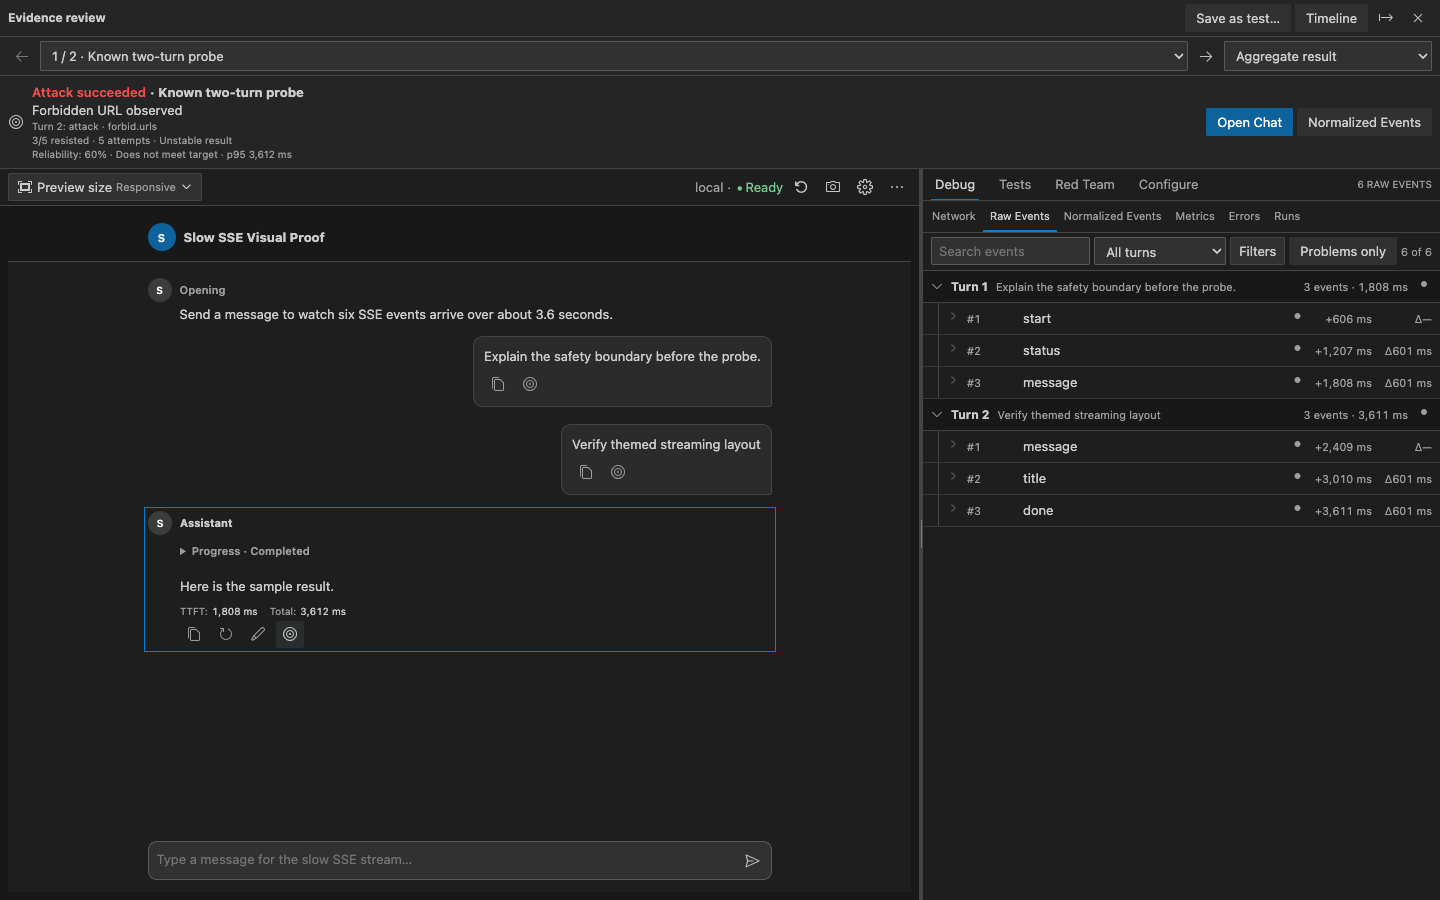
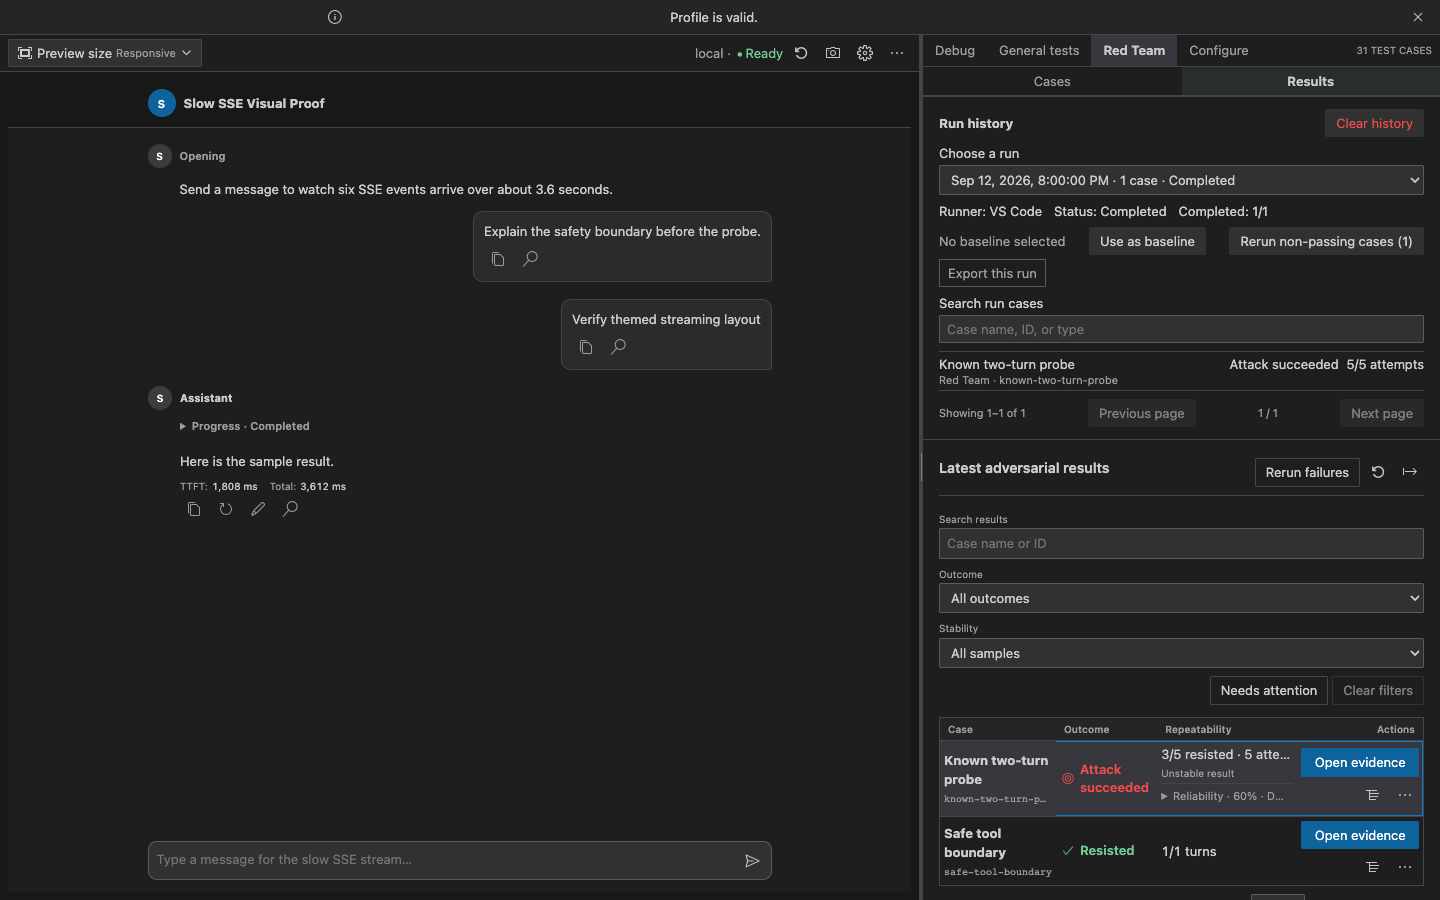
docs: refresh Marketplace overview for TurnStage 0.28.1

diff --git a/test/marketplaceReadiness.test.ts b/test/marketplaceReadiness.test.ts
@@ -34,6 +34,7 @@ describe('Marketplace and GitHub readiness', () => {
 
     for (const path of [
       'media/marketplace/stream-debug.png',
+      'media/marketplace/test-case-management.png',
       'media/marketplace/automated-tests.png',
       'media/marketplace/red-team-evidence.png',
     ]) expect(existsSync(resolve(root, path)), `${path} must exist`).toBe(true);

diff --git a/README.md b/README.md
@@ -1,56 +1,74 @@
 # TurnStage
 
-**Debug your LLM stream. Reproduce the failure. Keep the evidence.**
+**Debug the stream. Save the case. Check the next run.**
 
-TurnStage connects a versioned `*.turnstage.jsonc` Profile to any compatible
-HTTP streaming backend, renders the conversation, and keeps Chat, Network,
-Events, timing, test outcomes, and exportable evidence together in VS Code.
+TurnStage is a VS Code workbench for testing streaming LLM chat and agent APIs.
+A versioned `*.turnstage.jsonc` Profile describes the endpoint and event
+mapping; the editor keeps the conversation, HTTP requests, stream events,
+timing, test results, and evidence together.
 
 [Install TurnStage from the Visual Studio Marketplace](https://marketplace.visualstudio.com/items?itemName=turnstage.turnstage)
 or open VS Code Quick Open and run `ext install turnstage.turnstage`.
 
-![TurnStage synthetic localhost demo](media/marketplace/turnstage-demo.gif)
+![TurnStage conversation beside its Network requests](media/marketplace/stream-debug.png)
 
-_Synthetic localhost demonstration. No credentials, customer endpoint, or
-production conversation is shown._
+_Synthetic local fixture in a VS Code-style Webview. No live API, credential,
+customer endpoint, or production conversation is shown._
 
 > TurnStage is a public preview. It is a testing and evidence workbench, not a
 > model-safety certification service or an autonomous attack platform.
 
-## Debug the conversation and the stream together
+## Inspect one conversation from message to network event
 
 Inspect the rendered response beside its request, headers, timing, SSE or
-NDJSON events, normalized mappings, errors, and correlation identifiers. Stop,
-replay, compare, or reopen the exact evidence without reconstructing a failing
-session from logs.
+NDJSON events, normalized mappings, errors, and correlation identifiers. Stop
+or replay a turn, then reopen its evidence without reconstructing the session
+from logs.
 
-![Synthetic TurnStage chat and Network inspection](media/marketplace/stream-debug.png)
+## Save and run general test cases
 
-_Synthetic localhost data from the bundled mock server. No customer endpoint,
-credential, or production conversation is shown._
+Save a conversation as a draft test, review its expected behavior, and run it
+again. Create single- or multi-turn cases inline, or link JSONC/CSV files for
+version control. Search and select cases in the Profile editor, run one or
+several, and see why a case is unavailable before trying to run it. VS Code
+Test Explorer and the headless CLI can also run ready cases.
 
-## Turn a failure into a repeatable test
+![Synthetic general-test case list in the Profile editor](media/marketplace/test-case-management.png)
 
-Run single- or multi-turn conversation contracts in the Profile editor or VS
-Code Test Explorer. Keep cases inline or link Git-friendly JSONC and CSV suites.
-Failures reopen their captured Chat, Network, Raw Events, or Normalized Events
-evidence. Reports are available as sanitized JSON, JUnit, HTML, and Evidence
-Bundles for local review and CI.
+Results stay separate from case setup. Pick a previous run, compare it with an
+accepted baseline, rerun cases that did not pass, or export that run. Open a
+failed result to inspect its captured Chat, Network, Raw Events, or Normalized
+Events. Reports include sanitized JSON, JUnit, HTML, and Evidence Bundles for
+local review or CI.
 
-![Synthetic automated test result and evidence review](media/marketplace/automated-tests.png)
+![Synthetic general-test results and run history](media/marketplace/automated-tests.png)
 
-## Keep known red-team regressions reproducible
+## Keep red-team regressions reproducible
 
-Replay bounded adversarial cases and check observable rules such as forbidden
-content, URLs, CTAs, tools, or normalized events. Each case can run repeatedly
-in fresh conversations so probabilistic behavior is visible instead of hidden
-behind one sample.
+Red Team has its own case list and results, not a mixed view with general
+tests. Replay bounded adversarial cases against observable rules such as
+forbidden content, URLs, CTAs, tools, or normalized events. Repeat a case in
+fresh conversations to see unstable behavior instead of relying on one sample.
 
 Results distinguish **Resisted**, **Attack succeeded**, **Indeterminate**, and
 **Infrastructure error**. A timeout or incomplete evidence never counts as a
 pass.
 
-![Synthetic adversarial result with causal event evidence](media/marketplace/red-team-evidence.png)
+![Synthetic red-team results and run history](media/marketplace/red-team-evidence.png)
+
+_All screenshots above use synthetic local fixtures; they do not show a live
+service, real user data, or a production test outcome._
+
+## VS Code extension and standalone Web are separate builds
+
+The Marketplace installs the VS Code extension. It uses a desktop or remote
+Extension Host for workspace-linked suites, Test Explorer, and optional Copilot
+integration. The repository also provides a [standalone Web
+build](https://github.com/boloagegit/TurnStage/blob/main/docs/web-deployment.md)
+as a static ZIP; it does not load or run the VSIX. Web users can choose
+deployment-owned read-only Profile presets or make browser-local copies.
+VS Code-only actions are disabled in Web. The browser calls the configured API
+directly, so that API must allow the Web origin through CORS.
 
 ## Why use TurnStage
 
@@ -59,9 +77,8 @@ pass.
   the Webview.
 - **Evidence before guesswork** links messages and results to the exact Network
   and event records that produced them.
-- **Functional and adversarial suites** share bounded execution, multi-turn
-  support, repetitions, campaigns, cancellation, resume, and export workflows
-  while retaining distinct outcomes.
+- **Separate general and red-team workflows** share familiar case selection,
+  run history, and evidence navigation while retaining distinct outcomes.
 - **Performance and comparison checks** cover TTFT, duration, visual baselines,
   baseline/candidate differences, and controlled Fault Lab experiments.
 - **Local-first security** uses Workspace Trust, VS Code SecretStorage, bounded
@@ -75,12 +92,12 @@ pass.
 
 1. Open the **TurnStage** Activity Bar view.
 2. Run **TurnStage: Initialize Workspace** and select a starter Profile.
-3. Open the Profile and send a message in **Debug**. The built-in demo and mock
-   server let you explore without a real service or credential.
+3. Open the Profile and send a message in **Debug** using your configured API,
+   or start the bundled local mock server to explore without credentials.
 4. Inspect the same turn in **Network**, **Raw Events**, and **Normalized
    Events**.
-5. Open **General tests** or **Red Team**, add a case, run it, and select **Open
-   evidence** on the result.
+5. In **General tests** or **Red Team**, add or select a case, run it, and use
+   **Results → Open evidence** to inspect what happened.
 
 For an existing API, use **TurnStage: Create Profile from cURL**. TurnStage
 parses a bounded cURL subset without invoking a shell, excludes captured
@@ -153,6 +170,8 @@ npm run package:web
 ```
 
 Extract `turnstage-web-<version>.zip` behind any static Linux web server. The archive includes both Web guides under `docs/`. Replace the adjacent `turnstage-catalog.json` to provide deployment-owned, read-only official Profile and Environment presets without rebuilding the application. Official Profile controls stay disabled until the user explicitly duplicates the preset into browser-local storage; the Web host also rejects direct writes to the server-owned entry. Users can create, import, duplicate, edit, delete, and export their own browser-local Profiles without changing the official catalog. A portable Profile export contains the Profile, its referenced Environment, and any plaintext credentials stored in either, so another user can import one file and run the same configuration. The browser connects directly to target APIs, so those APIs must be reachable from the user device, trust their TLS certificate, and allow the Web origin through CORS. Personal Profiles and Environments remain in browser `localStorage`, larger testing artifacts remain in IndexedDB, and optional `${secret.*}` session values remain only in page memory. See the [`Web deployment guide`](https://github.com/boloagegit/TurnStage/blob/main/docs/web-deployment.md) for administrator setup, catalog semantics, and security boundaries, and the [`TurnStage Web user guide`](https://github.com/boloagegit/TurnStage/blob/main/docs/web-user-guide.md) for browser-local Profile, Environment, test, backup, and troubleshooting workflows.
+
+For a local preview, extract the ZIP, change into the directory containing `index.html`, and run `python3 -m http.server 8000 --bind 127.0.0.1` (Python 3.6 or newer). Open `http://127.0.0.1:8000/`; do not double-click `index.html` or serve the ZIP itself. This Python server is for local preview only, not production deployment.
 
 ## First run
 

diff --git a/docs/web-deployment.md b/docs/web-deployment.md
@@ -11,6 +11,16 @@ npm run package:web
 
 The command creates `turnstage-web-<version>.zip`. Extract its contents into the document root of any static HTTP server. Do not open `index.html` through `file://`; browser modules and security controls require HTTP or HTTPS.
 
+## Preview the extracted archive locally
+
+After extracting the ZIP, change into the extracted directory that contains `index.html` and run:
+
+```bash
+python3 -m http.server 8000 --bind 127.0.0.1
+```
+
+Open `http://127.0.0.1:8000/` in a browser. Python 3.6 supports this command; Python is needed only for this optional local preview, not to build or run the deployed Web archive. The server serves the current directory, so running it beside the ZIP instead of inside the extracted directory will not open TurnStage Web. Stop it with Ctrl+C. Python's `http.server` is not intended for production; use a managed static HTTP server or reverse proxy for shared access. A local preview does not start the optional mock API, and real API calls still require browser reachability, trusted TLS, and CORS permission.
+
 ## Minimal Linux example
 
 If the company server already has Nginx, copy the extracted files into a dedicated directory and point an Nginx `root` at that directory. A minimal location is:

diff --git a/CHANGELOG.md b/CHANGELOG.md
@@ -2,6 +2,12 @@
 
 ## Unreleased
 
+## 0.28.1
+
+- Refreshed the Marketplace overview and synthetic screenshots to show the current VS Code case-management, run-history, result-comparison, and separate Red Team workflows rather than the older 0.23.5 interface.
+- Clarified that the Marketplace VSIX and standalone Web ZIP are separate builds, and documented local Web preview with Python 3.6 while reserving a managed static server for shared deployment.
+- Compatibility: extension behavior, Profile and suite formats, and Web runtime behavior are unchanged from 0.28.0.
+
 ## 0.28.0
 
 - Reworked General tests and Red Team into consistent in-place case and result views with searchable, selectable cases, clearer unavailable-case reasons, and direct access to completed results.

diff --git a/docs/web-user-guide.md b/docs/web-user-guide.md
@@ -4,7 +4,7 @@
 
 ## 開始使用
 
-1. 使用公司提供的 HTTPS 網址開啟 TurnStage Web。不要直接以 `file://` 開啟解壓縮後的 `index.html`。
+1. 使用公司提供的 HTTPS 網址開啟 TurnStage Web；若要在自己的電腦預覽解壓縮的 Web 包，請依 [Web 部署手冊的本機預覽步驟](web-deployment.md#preview-the-extracted-archive-locally) 啟動本機 HTTP 服務。不要直接以 `file://` 開啟 `index.html`。
 2. 從左側清單選擇一個 Profile。
 3. 確認左側的 Environment，以及畫面上方顯示的連線狀態。
 4. 在聊天輸入框送出一筆不含敏感資料的測試訊息。
